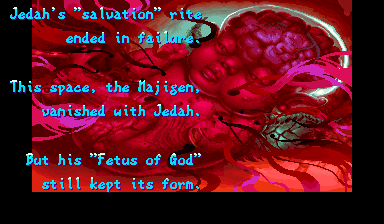
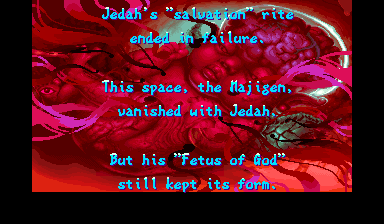
English win quotes for Huitzil, Pyron and Donovan; centred ending lines
Claude-Session: https://claude.ai/code/session_013Vje3pEtpLHubqCGwCgoQX

diff --git a/text/vsav2_win_quotes_en.py b/text/vsav2_win_quotes_en.py
@@ -1,0 +1,116 @@
+"""English win quotes for the three characters whose quotes were written for Vampire
+Savior 2 (Capcom's English Vampire Savior has none for them): Huitzil, Pyron and
+Donovan. Translated from the Japanese of the arcade game, read by drawing the text with
+the game's own font.
+
+Keyed by character id; 16 quotes each, every quote with the original number of lines
+(at most 30 letters per line). The Japanese is in the comments.
+"""
+
+HUITZIL, PYRON, DONOVAN = 0x10, 0x11, 0x13
+
+QUOTES = {
+    # Huitzil speaks as a machine log (katakana, every quote starting with 》).
+    HUITZIL: [
+        # セーフティエリア 確保 / 進路ヲ 検索中：
+        ['Safety area secured.', 'Searching for a route...'],
+        # 敵 戦闘能力 ブンセキ / 類型データ ニ 格納中：
+        ['Enemy combat ability analyzed.', 'Storing as pattern data...'],
+        # 現在 特別コード ニテ 作動中 / 保護対象ノ 生命維持 最優先：
+        ['Now running on special code.', "Ward's life is top priority."],
+        # 敵戦力 ゼジャク / 生命反応 急激ニ低下：
+        ['Enemy strength is weak.', 'Life signs dropping fast.'],
+        # 索敵 オヨビ / 早期警戒モード 持続：
+        ['Search and early warning', 'mode continuing.'],
+        # 敵 完全破壊 / 戦闘ノ 継続不能：
+        ['Enemy fully destroyed.', 'Combat cannot continue.'],
+        # 未知エネルギー 異常増大 / 警戒レベル４ 撤退ヲ推奨：
+        ['Unknown energy rising.', 'Alert four. Retreat advised.'],
+        # 自動修復モード ON / 引キツヅキ 索敵ヲ続行：
+        ['Auto-repair mode ON.', 'Continuing the search.'],
+        # 索敵レンジ内ニ 複数ノ 生体反応 / 警戒ヲ要ス 警戒ヲ要ス：
+        ['Many life signs in range.', 'Caution. Caution.'],
+        # 熱源追跡 開始‥‥‥ / 目標ヨリ 離脱セシ 反応 ナシ：
+        ['Heat source tracking begun...', 'No sign of the target fleeing.'],
+        # ボディ ニ レベル６ノ 損傷 / ２００秒ノ 修復時間ヲ 要ス：
+        ['Level six damage to the body.', 'Two hundred seconds to repair.'],
+        # 保護対象 ニ 異常ナシ：
+        ['The ward is unharmed.'],
+        # 有視界内ニ 敵影 反応ナシ / 警戒レベル ２ ニ 移行：
+        ['No enemy in visual range.', 'Moving to alert level two.'],
+        # 命令待機中： / 命令待機中：
+        ['Awaiting orders.', 'Awaiting orders.'],
+        # 迎撃システム 正常ニ 作動中：
+        ['Intercept system working.'],
+        # 敵戦力 解析不能 / データ不足 データ不足：
+        ['Enemy strength unknown.', 'Not enough data. No data.'],
+    ],
+    PYRON: [
+        # 砕け散る命は美しい / 新星にも似た至宝の輝きだよ
+        ['A shattering life is beautiful', "A jewel's glow, like a nova."],
+        # 美は守られるべきだ / 絶対の力によってね
+        ['Beauty must be protected.', 'By absolute power, that is.'],
+        # 時の流れとは無粋なものだ / ほとんどの美をくだらぬゴミにする
+        ['The flow of time is so crude.', 'It turns most beauty to trash.'],
+        # 勝利に最大の価値を見出せないのは / 私の数少ない不幸ではあるな
+        ['Finding no value in victory', 'is one of my few misfortunes.'],
+        # せめて楽しみたまえ / いずれ君はそれすらできなくなる
+        ['Enjoy it while you can.', 'Soon even that will be gone.'],
+        # 大宇宙の原理にそぐわぬ者は / ただ消滅するしかない
+        ['Those who defy the cosmos', 'can only vanish.'],
+        # この私の力が抑制されるとは‥‥ / 興味深い空間だ
+        ['My own power, held back...', 'What an interesting space.'],
+        # お前たちの言う「魂の力」‥‥ / わずかだが理解できるよ
+        ['Your so-called power of souls', 'I begin to understand it.'],
+        # 滅ぶために戦うというのか / まあいい、退屈な勝者に用はない
+        ['You fight only to perish?', 'Fine. Dull winners bore me.'],
+        # 勝利が目的ではない、しかし / 負けてやるほど寛大でもないのだ
+        ['Victory is not my goal, but', 'I am not so kind as to lose.'],
+        # 全てを超越した私に / 負ける要因があろうはずがない
+        ['I have transcended all.', 'There is no way I could lose.'],
+        # 物質として / 君たちに勝機はないのだよ
+        ['As mere matter,', 'you have no chance to win.'],
+        # １５０億年の歴史の前では / 君の命などチリに等しい
+        ['Before fifteen billion years,', 'your life is but dust.'],
+        # 結果はともかく / 過程はそれなりに楽しめたよ
+        ['Whatever the result,', 'I rather enjoyed the process.'],
+        # 輝け‥‥そして散るのだ
+        ['Shine... and then scatter.'],
+        # 肉体という弱点がある限り / 究極生命体にはなれぬのだ
+        ['While bound to a body, you', "can't be the ultimate life."],
+    ],
+    DONOVAN: [
+        # 私はダークハンター / すべての闇を滅する！
+        ['I am a Dark Hunter.', 'I destroy all darkness!'],
+        # アニタよ‥‥これがお前の / 望む未来だというのか
+        ['Anita... is this the future', 'that you wish for?'],
+        # 必ず戻ってみせる‥‥ / 光ある世界に！
+        ['I will return, I swear...', 'to the world of light!'],
+        # しょせんは幻 / この私を惑わすことはできぬ
+        ['A mere illusion.', 'It cannot lead me astray.'],
+        # 魔道とは己の心に巣食う闇 / 私は堕ちぬ、人の血に賭けて
+        ['Evil is the dark in the heart.', "I'll not fall. I am human too."],
+        # 一筋の希望を捨てぬのが人 / この絶望にさえ光は届くのだ
+        ['Humans never give up hope.', 'Light reaches even despair.'],
+        # 幻ならそれでいい / 一片の情けも要らぬというもの
+        ['If an illusion, so be it.', 'Then I need show no mercy.'],
+        # 世を捨て、心を捨てた私に、 / 今また誇りさえも捨てよと言うのか
+        ['I gave up the world, my heart.', 'Must I give up my pride too?'],
+        # 立ち向かうこと / すべてはそこから始まる
+        ['To stand and face it.', 'Everything begins from there.'],
+        # お前たちもまた / この闇にとらわれし罪人なのか
+        ['Are you, too, sinners', 'trapped in this darkness?'],
+        # どうした！ / その程度では我が心は揺るがぬぞ！
+        ["What's wrong!", "That won't shake my heart!"],
+        # この悪夢から覚めるとき / 私は何を思うのだろうか
+        ['When I wake from this dream,', 'what will I be thinking?'],
+        # たとえこの身が滅びようと / お前たちに屈しはしない！
+        ['Even if my body perishes,', 'I will not yield to you!'],
+        # この怖気とも歓喜ともつかぬ震え / 魔族の血がなせるワザなのか
+        ['This shiver of dread or joy...', "Is it my demon blood's doing?"],
+        # 私は、私の信じる道を行く / 先に地獄が待っていようと
+        ['I walk the path I believe in.', 'Even if hell waits ahead.'],
+        # 神も悪魔も / 私の罪を赦しはしない
+        ['Neither god nor devil', 'will forgive my sins.'],
+    ],
+}

diff --git a/tools/build/win_quotes.py b/tools/build/win_quotes.py
@@ -12,11 +12,13 @@ quotes of Vampire Savior, so their English quotes are taken as they are. The ste
   4. writes the new master table in free ROM space and points the English, Spanish and
      Portuguese entries of the language table at it.
 
-Characters with quotes written for Vampire Savior 2 (Donovan, Huitzil, Pyron and the
-boss) have no English in `vsav`: they keep the Japanese block until they are translated.
+Characters with quotes written for Vampire Savior 2 (Huitzil, Pyron, Donovan) have no
+English in `vsav`: theirs is our translation, text/vsav2_win_quotes_en.py.
 """
 import struct
 
+import vsav2_win_quotes_en
+from build import story_text
 from cps2 import quotes
 
 # vsav2: the language table (4 long pointers) and its only, Japanese, master table
@@ -43,6 +45,7 @@ def apply(vsav2_program, vsav_program, free_space_address, free_space_end):
     savior_english = [quotes.read_block(vsav_program, address) for address in
                       quotes.read_master_table(vsav_program, VSAV_ENGLISH_MASTER_TABLE)]
 
+    code_of = story_text.latin_codes(vsav_program)
     english_blocks, untranslated_ids = [], []
     block_cache = {}        # block address in vsav2 -> the quotes chosen for it
     for character_id, block_address in enumerate(
@@ -55,6 +58,13 @@ def apply(vsav2_program, vsav_program, free_space_address, free_space_end):
             matches = [index for index, block in enumerate(savior_japanese) if block == japanese]
             if matches:
                 block_cache[block_address] = savior_english[matches[0]]
+            elif character_id in vsav2_win_quotes_en.QUOTES:
+                ours = vsav2_win_quotes_en.QUOTES[character_id]
+                if [len(quote) for quote in ours] != [len(quote) for quote in japanese]:
+                    raise SystemExit('win quotes: character %02x does not have the original lines'
+                                     % character_id)
+                block_cache[block_address] = story_text.encode_text(
+                    [ours], code_of, story_text.DIALOGUE_LINE_LENGTH)[0]
             else:
                 block_cache[block_address] = japanese
                 untranslated_ids.append(character_id)

diff --git a/tools/build/story_text.py b/tools/build/story_text.py
@@ -30,6 +30,14 @@ ENDING_LINE_LENGTH = 24
 DIALOGUE_LINE_LENGTH = 30
 
 
+# The ending centres each line by moving its start left by (letters - 1) * 8 pixels
+# (`asl.w #3, d0` at 0x8b246), right for the 16-pixel kanji but twice too much for the
+# Western letters, which advance 8 pixels: the shift becomes `asl.w #2, d0`.
+ENDING_CENTRING_SHIFT_ADDRESS = 0x8b246
+ENDING_CENTRING_SHIFT_ORIGINAL = bytes.fromhex('e740')     # asl.w #3, d0
+ENDING_CENTRING_SHIFT_WESTERN = bytes.fromhex('e540')      # asl.w #2, d0
+
+
 def latin_codes(vsav_program):
     """ASCII character -> its 16-bit code (tile and spacing), learnt from all the
     English texts of Vampire Savior (win quotes, endings and the other two tables)"""
@@ -79,6 +87,10 @@ def check_same_shape(vsav2_program, table_address, blocks, name):
 def apply(vsav2_program, vsav_program, free_space_address, free_space_end):
     """writes the English tables at free_space_address; returns the address after them"""
     code_of = latin_codes(vsav_program)
+    end = ENDING_CENTRING_SHIFT_ADDRESS + len(ENDING_CENTRING_SHIFT_ORIGINAL)
+    if vsav2_program[ENDING_CENTRING_SHIFT_ADDRESS:end] != ENDING_CENTRING_SHIFT_ORIGINAL:
+        raise SystemExit('story text: unexpected code at the ending centring')
+    vsav2_program[ENDING_CENTRING_SHIFT_ADDRESS:end] = ENDING_CENTRING_SHIFT_WESTERN
     for language_table, name, maximum_line_length, blocks in (
             (ENDINGS_LANGUAGE_TABLE, 'endings', ENDING_LINE_LENGTH,
              [vsav2_story_en.ENDING, vsav2_story_en.ENDING_JEDAH]),

diff --git a/make_vsav2e.py b/make_vsav2e.py
@@ -29,10 +29,13 @@ def main():
     output_directory = sys.argv[2] if len(sys.argv) > 2 else '.'
     chips = program.split_program(build.build(rom_directory))
     output_path = os.path.join(output_directory, 'vsav2e.zip')
+    # the zip is written in full before anything is printed, so that a closed output
+    # pipe (`... | head`) cannot leave it half written
     with zipfile.ZipFile(output_path, 'w', zipfile.ZIP_DEFLATED) as archive:
         for name, data in zip(PROGRAM_CHIP_NAMES, chips):
             archive.writestr(name, data)
-            print('  %-8s %7d  %08x' % (name, len(data), zlib.crc32(data) & 0xffffffff))
+    for name, data in zip(PROGRAM_CHIP_NAMES, chips):
+        print('  %-8s %7d  %08x' % (name, len(data), zlib.crc32(data) & 0xffffffff))
     print('written', output_path)
 
 

diff --git a/docs/text.md b/docs/text.md
@@ -20,8 +20,10 @@ Portuguese follow the same layout further on). 33 character ids, 16 quotes each.
 Twelve characters of vsav2 have exactly Vampire Savior's Japanese quotes, so the English
 ones are copied as they are (`tools/build/win_quotes.py`); ids `02`, `09`, `0a` (Jon
 Talbain, Rikuo, Sasquatch) get their Vampire Savior quotes too, ready for the full
-roster. Ids `10`, `11`, `13` have quotes written for Vampire Savior 2 and are still
-Japanese: to translate (the PlayStation game shows them in English).
+roster. Ids `10`, `11`, `13` (Huitzil, Pyron, Donovan) have quotes written for Vampire
+Savior 2, never translated by Capcom for the arcade: the English is ours, in
+`text/vsav2_win_quotes_en.py` (same number of lines as each Japanese quote; the font has
+no digits, no `:` and no Q, X, Z).
 
 The proportional Latin font of the quotes is still in vsav2's graphics: the English
 quotes display correctly with no graphics change.
@@ -42,10 +44,11 @@ the English is ours, in `text/vsav2_story_en.py`, written by `tools/build/story_
   (proportional spacing, light blue).
 - Ending lines hold at most 24 letters: with 29 the game crashes (several lines are on
   screen at once; the limit is somewhere in between). Other lines at most 30.
-- Known cosmetic point: the ending lines are centred as if every letter were 8 pixels
-  wide, so they sit a little off centre.
+- The ending renderer (object code at `0x8b1fc`) starts each line (letters - 1) * 8
+  pixels left of the centre (`asl.w #3, d0` at `0x8b246`): right for the 16-pixel kanji,
+  twice too much for the Western letters, which advance 8 pixels. vsav2e makes it
+  `asl.w #2, d0`, so the lines are centred.
 
 ## Not done yet
 
-The three untranslated characters (ids 10, 11, 13), the Japanese in graphics (if any),
-the remaining system text.
+The Japanese in graphics (if any), the remaining system text.
